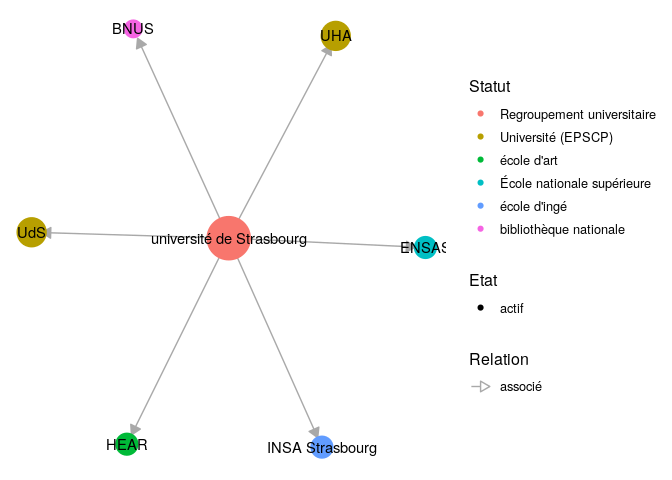
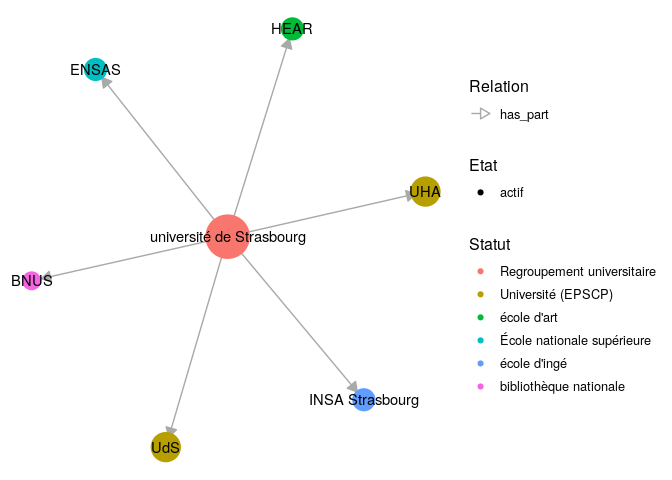
Update documentation

diff --git a/README.md b/README.md
@@ -43,13 +43,16 @@ Alsace :
 
   - L’*identifiant wikidata* est
     [Q61716176](https://www.wikidata.org/wiki/Q61716176) ;
-  - Les *propriétés* sont “composante” et “associé” ;
-  - Il est possible de fixer une *profondeur* pour l’exploration.
+  - Les *propriétés* sont `subsidiary` (“composante”) et `has_part`
+    (“associé”) ;
+  - Il est possible de fixer une *profondeur* pour
+l’exploration.
 
 <!-- end list -->
 
 ``` r
-alsace <- wdesr_get_graph("Q61716176", c('composante','associé'), 1)
+alsace <- wdesr_get_graph("Q61716176", property = c("subsidiary", "has_part"), 
+                          depth = 1)
 ```
 
 Pour faciliter les contributions, la fonction déclenche des warning pour
@@ -59,7 +62,7 @@ Elle retourne un objet contenant vertices et edges, qui représentent les
 établissements et leurs
 relations.
 
-| id        | label                                                   | alias                    | statut                     | level |
+| id        | label                                                   | alias                    | status                     | level |
 | :-------- | :------------------------------------------------------ | :----------------------- | :------------------------- | ----: |
 | Q157575   | université de Strasbourg                                | UdS                      | Université (EPSCP)         |     3 |
 | Q21041502 | Haute école des arts du Rhin                            | HEAR                     | école d’art                |     4 |
@@ -69,14 +72,14 @@ relations.
 | Q61716176 | université de Strasbourg                                | université de Strasbourg | Regroupement universitaire |     2 |
 | Q630461   | bibliothèque nationale et universitaire de Strasbourg   | BNUS                     | bibliothèque nationale     |     5 |
 
-| from      | to        | type    | date | depth |
-| :-------- | :-------- | :------ | :--- | ----: |
-| Q61716176 | Q280183   | associé | NA   |     1 |
-| Q61716176 | Q157575   | associé | NA   |     1 |
-| Q61716176 | Q521036   | associé | NA   |     1 |
-| Q61716176 | Q630461   | associé | NA   |     1 |
-| Q61716176 | Q3578190  | associé | NA   |     1 |
-| Q61716176 | Q21041502 | associé | NA   |     1 |
+| from      | to        | type      | date | depth |
+| :-------- | :-------- | :-------- | :--- | ----: |
+| Q61716176 | Q280183   | has\_part | NA   |     1 |
+| Q61716176 | Q157575   | has\_part | NA   |     1 |
+| Q61716176 | Q521036   | has\_part | NA   |     1 |
+| Q61716176 | Q630461   | has\_part | NA   |     1 |
+| Q61716176 | Q3578190  | has\_part | NA   |     1 |
+| Q61716176 | Q21041502 | has\_part | NA   |     1 |
 
 ### Tracer des représentations
 
@@ -96,7 +99,7 @@ relations. Cela se fait en modifiant l’argument `depth`
 :
 
 ``` r
-alsace <- wdesr_get_graph("Q61716176", c('composante', 'associé'), depth = 2)
+alsace <- wdesr_get_graph("Q61716176", c("subsidiary", "has_part"), depth = 2)
 plot(alsace)
 ```
 
